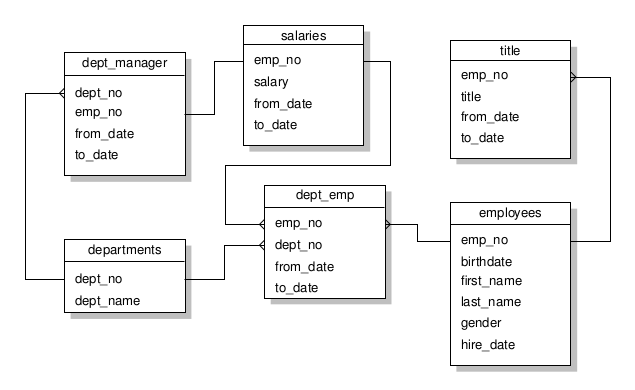
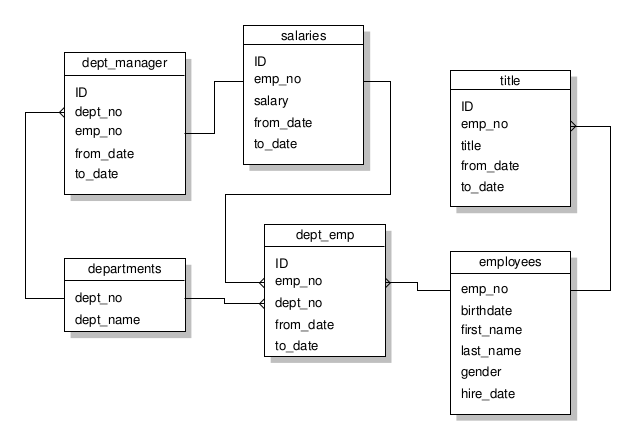
Updated ERD

diff --git a/erd.tex b/erd.tex
@@ -103,6 +103,7 @@
 \matrix [entity={salaries}, above right=4.5cm and 3cm of departments, entity anchor=salaries-emp_no]  {
 	\entitynamenode{salaries}
     \properties{
+		ID,        
         emp_no, 
         salary,
         from_date,
@@ -110,9 +111,10 @@
     }
 };
 
-\matrix [entity={dept-emp}, below right=2cm and -1cm of salaries, entity anchor=dept-emp-emp_no]  {
+\matrix [entity={dept-emp}, below right=3cm and -1cm of salaries, entity anchor=dept-emp-emp_no]  {
 	\entitynamenode{dept{\_}emp}
     \properties{
+		ID,        
         emp_no, 
         dept_no, 
         from_date, 
@@ -135,6 +137,7 @@
 \matrix [entity={title}, above=of employees, entity anchor=title-emp_no]  {
 	\entitynamenode{title}
     \properties{
+		ID,        
         emp_no, 
         title,
         from_date,
@@ -145,6 +148,7 @@
 \matrix [entity={dept-manager}, above=of departments, entity anchor=dept-manager-emp_no]  {
 	\entitynamenode{dept{\_}manager}
     \properties{
+		ID,    	
     	dept_no,
         emp_no,
         from_date,
@@ -158,7 +162,7 @@
 \draw [many to one] (dept-emp-emp_no) to (employees-emp_no);
 \draw [one to many] (employees-emp_no.east) -- ++(1.0cm,0) |- (title-emp_no);
 %\draw [one to one]  (dept-emp-emp_no.west) -- ++(-1.0cm,0)  |- (salaries-emp_no.west)  ;
-\draw [many to one]  (dept-emp-emp_no.west) -- ++(-1.0cm,0) -- ++(0,1.5)  -- ++(4.2,0) |- (salaries-emp_no.east);
+\draw [many to one]  (dept-emp-emp_no.west) -- ++(-1.0cm,0) -- ++(0,2.25)  -- ++(4.2,0) |- (salaries-emp_no.east);
 \draw [one to one]  (dept-manager-emp_no) to (salaries-emp_no);
 \draw [one to many]  (departments-dept_no.west)  -- ++(-1.0cm,0) |- (dept-manager-dept_no.west);
 %\draw [many to one] (Sales-perkey)     to (Period-perkey);
